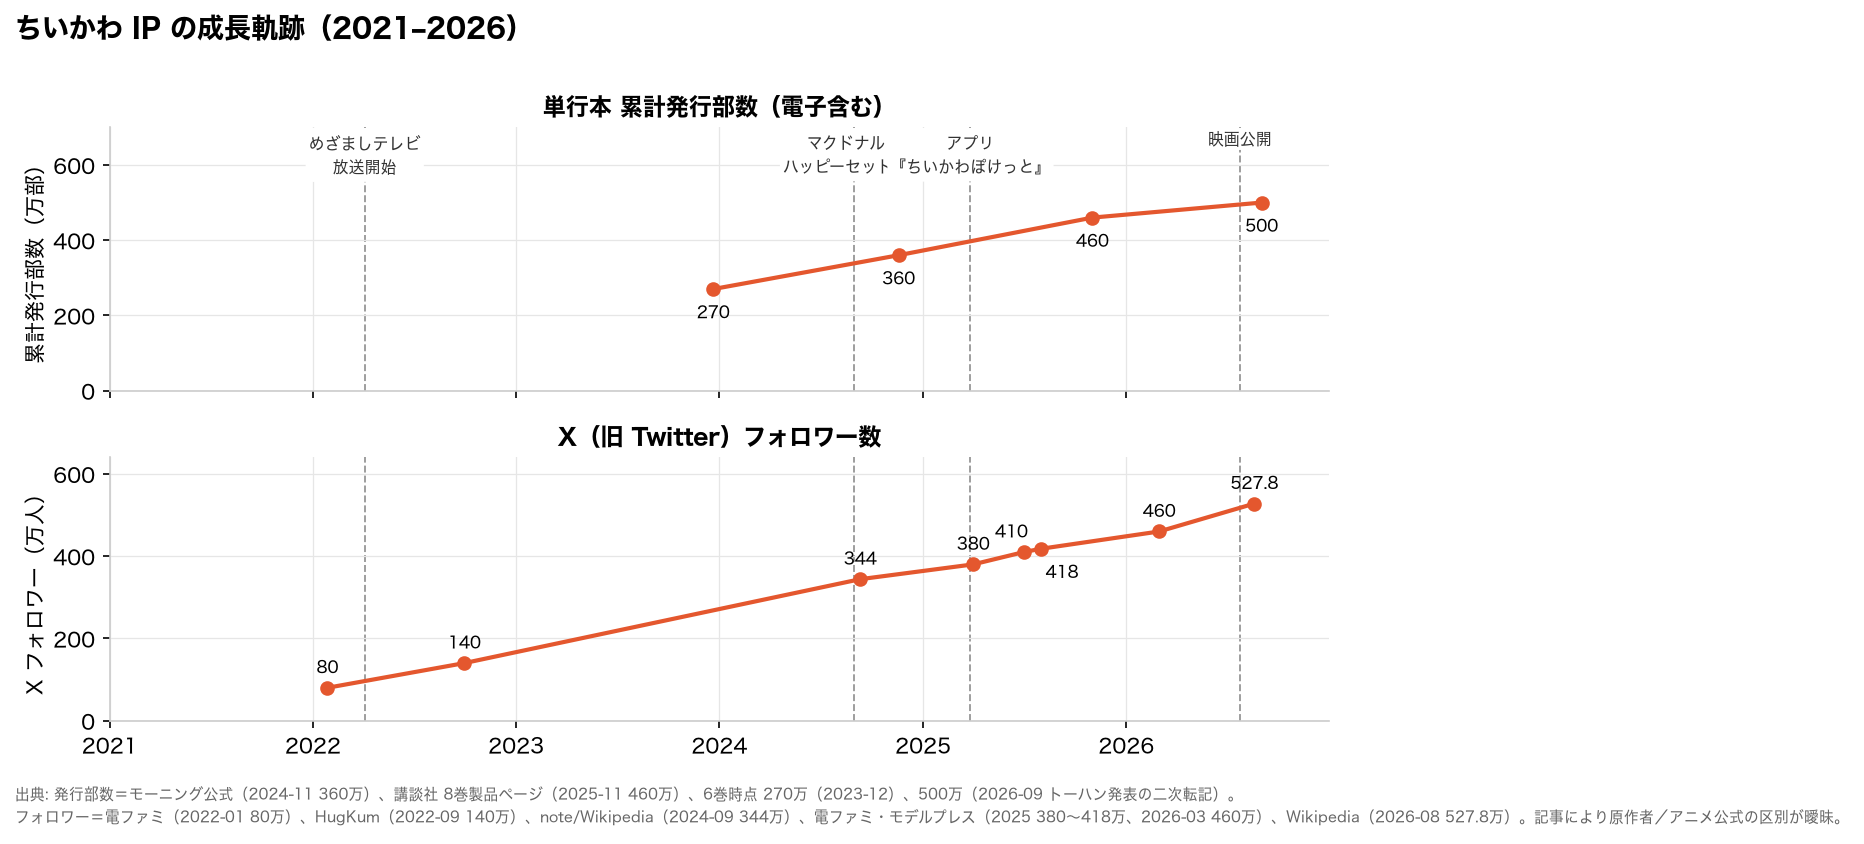
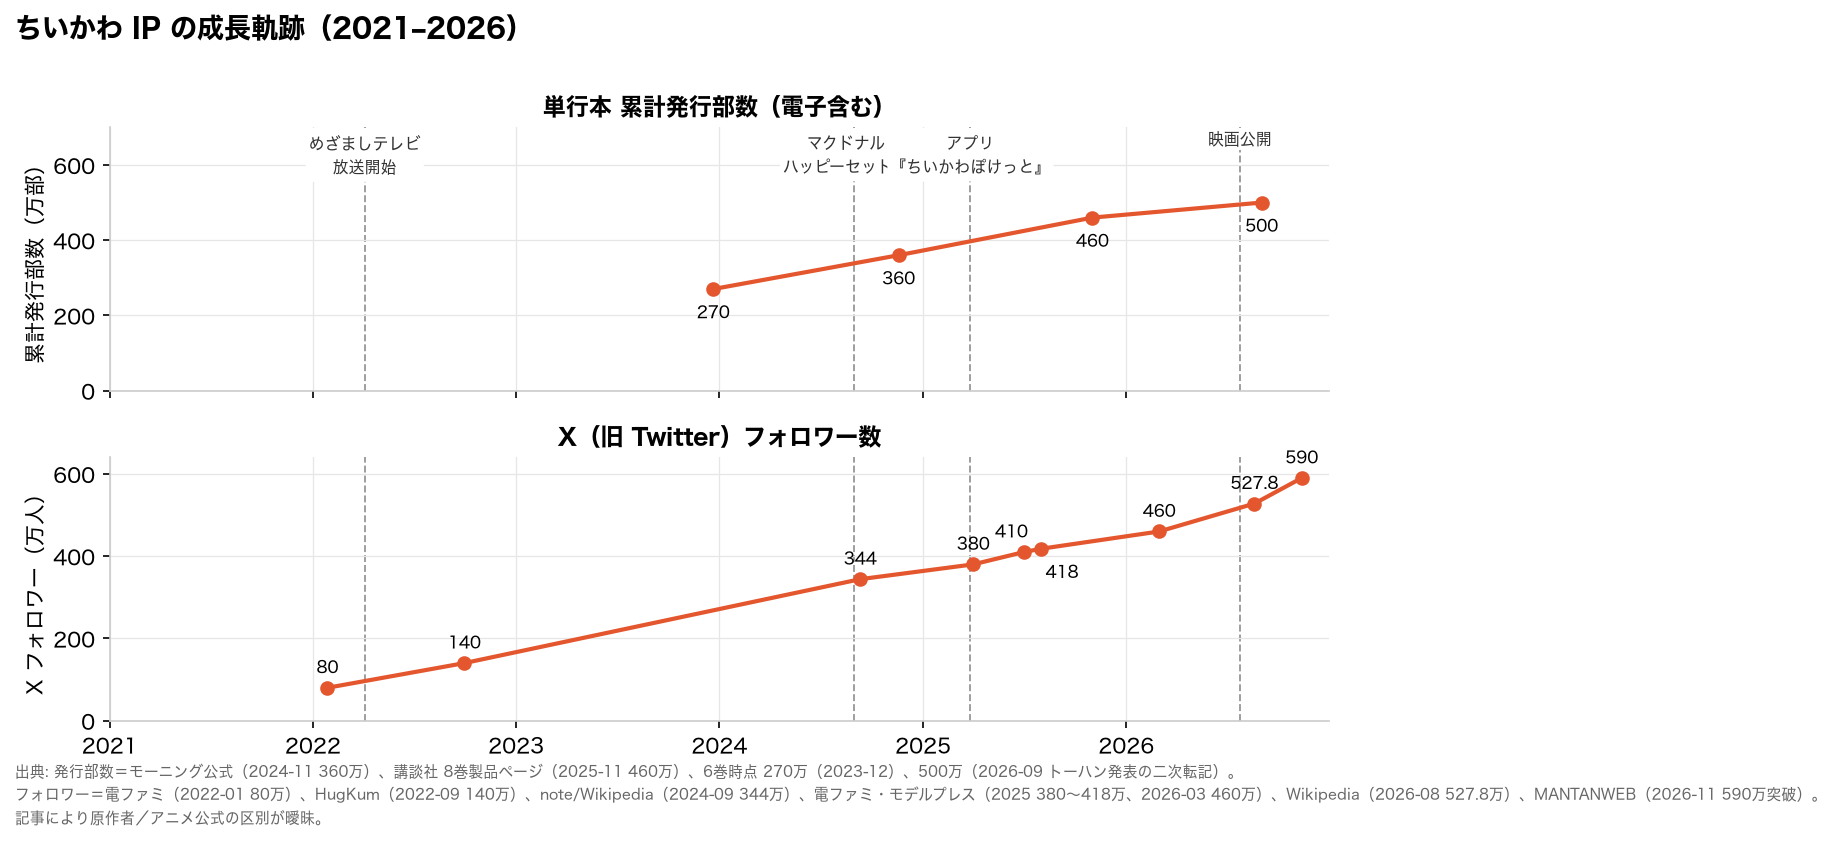
docs(chiikawa): 映画の興収・動員と X フォロワーを最新値に更新
映画は 2026-11-08 時点（公開 108 日、187.9 億円、1,286 万人）、
X フォロワーは 2026-11-12 の報道（590 万突破）。fig1・fig2・ヘッダーを再生成。

diff --git a/docs/articles/headers/make_headers.py b/docs/articles/headers/make_headers.py
@@ -1486,7 +1486,7 @@ def chiikawa() -> Path:
     items = [
         ("女児の人気度", "73.9% で 1 位", ORANGE),
         ("男児では", "TOP10 圏外", BLUE),
-        ("映画（公開 87 日）", "181.0 億円・1,242 万人", INK),
+        ("映画（公開 108 日）", "187.9 億円・1,286 万人", INK),
         ("大人側の指標から子ども 1 位まで", "3 年", INK),
     ]
     for i, (label, value, color) in enumerate(items):

diff --git a/docs/articles/2026-11-12-note-chiikawa-social-phenomenon.final.md b/docs/articles/2026-11-12-note-chiikawa-social-phenomenon.final.md
@@ -3,7 +3,7 @@
 
 ## 1. 背景・分析論点の概要
 
-「メディアが多様化して、誰もが知っている社会現象は起きにくくなった」とよく言われます。その一方で、ちいかわは「小学生なら全員知っている」と言われるほど広がり、2026 年 7 月公開の劇場版は公開 87 日で興行収入 181.0 億円に達しました。
+「メディアが多様化して、誰もが知っている社会現象は起きにくくなった」とよく言われます。その一方で、ちいかわは「小学生なら全員知っている」と言われるほど広がり、2026 年 7 月公開の劇場版は公開 108 日で興行収入 187.9 億円に達しました。
 
 この 2 つは両立するのでしょうか。本稿では、公開されている調査と統計だけを使って、次の 3 つを順に確かめました。
 
@@ -19,7 +19,7 @@
 **ちいかわは「全小学生」ではなく、「女児とその親世代」に強く偏って広がっていました。そして社会現象が起きにくくなったのはテレビの話で、映画ではむしろ巨大ヒットが増えていました。**
 
 - 代表性のある子ども調査（ビデオリサーチ Kids/ex、3〜12 歳、2025 年 10 月）で、ちいかわを「好き」と答えた割合は、女児で 73.9%（1 位）でした。男児では TOP10 圏外（10 位の 47.7% 未満）、子ども全体では 52.6%（7 位）です。
-- 劇場版は公開 87 日で興行収入 181.0 億円、動員 1,242 万人でした。動員は映画ドラえもん（約 320 万人）の約 4 倍です。
+- 劇場版は公開 108 日で興行収入 187.9 億円、動員 1,286 万人でした。動員は映画ドラえもん（約 320 万人）の約 4 倍です。
 - テレビの尺度は一貫して縮小しています。年間最高ドラマの世帯視聴率は 1990 年代平均 33.8% → 2020〜25 年平均 19.5%、10 代の平日のテレビ視聴は 2012 年 102.9 分 → 2024 年 39.7 分です。
 - 一方、映画では上位 3 作が全国興行収入に占める割合が、2010 年代平均 14.9% → 2020 年代平均 23.2% に上がりました。100 億円を超える作品も年 1.3 本 → 2022 年以降は年 3.25 本に増えています。
 - ちいかわは、大人向けの指標（ヒット商品番付・業界賞）で 2022 年に上位に入り、子ども調査の 1 位（2025 年）はその 3 年後、映画（2026 年）は 4 年後でした。鬼滅の刃や妖怪ウォッチは、この差が 0〜2 年です。
@@ -39,7 +39,7 @@
 - **子どものネット利用**: こども家庭庁「青少年のインターネット利用環境実態調査」（令和 7 年度）。
 - **検索関心**: Google Trends（日本、2019 年 1 月〜2026 年 10 月）。
 
-映画の数値は 2026 年 10 月 18 日時点、その他は 10 月 22 日時点で確認したものです。
+映画の数値は 2026 年 11 月 8 日時点、X のフォロワー数は 11 月 12 日の報道、その他は 10 月 22 日時点で確認したものです。
 
 
 ## 4. 分析方法の概要
@@ -76,10 +76,10 @@ NRC の全国調査（15〜79 歳、2024 年 7 月）では、ちいかわの好
 
 証拠 1 と合わせると、**ちいかわを支持しているのは「小学生の女児」と「10 代後半から 40 代の大人」で、男児には届いていません**。人気の偏りは、年齢よりも性別に出ています。
 
-### 証拠 3: X のフォロワーは 4 年半で 80 万 → 527.8 万。6 年かけて段階的に増えた
+### 証拠 3: X のフォロワーは 5 年弱で 80 万 → 590 万。6 年かけて段階的に増えた
 
 【画像を挿入: fig1_growth_timeline.png】
-*単行本の累計発行部数（上、万部）と X のフォロワー数（下、万人）。フォロワーは 2022 年 1 月 80 万 → 2026 年 8 月 527.8 万。出典: モーニング公式・講談社・各報道を加工*
+*単行本の累計発行部数（上、万部）と X のフォロワー数（下、万人）。フォロワーは 2022 年 1 月 80 万 → 2026 年 11 月 590 万。出典: モーニング公式・講談社・各報道を加工*
 
 ちいかわは短期間で急に広がったのではありません。主な出来事を並べるとこうなります。
 
@@ -91,22 +91,22 @@ NRC の全国調査（15〜79 歳、2024 年 7 月）では、ちいかわの好
 - 2025 年 10 月。Kids/ex の調査対象に初めて入り、女児 1 位。
 - 2026 年 7 月。劇場版を公開。
 
-フォロワーの増え方は、2022 年 1 月（80 万）→ 2024 年 9 月（344 万）が年率約 70%、2024 年 9 月 → 2026 年 8 月（527.8 万）が年率約 25% です。アニメの放送開始から 2 年間の伸びが最も急でした。
+フォロワーの増え方は、2022 年 1 月（80 万）→ 2024 年 9 月（344 万）が年率約 70%、2024 年 9 月 → 2026 年 8 月（527.8 万）が年率約 25% です。アニメの放送開始から 2 年間の伸びが最も急でした。映画公開後の 2026 年 11 月には、590 万を超えたと報じられています。
 
 ただし、アニメの放送が成長の原因だったとは言い切れません。放送開始の前に、フォロワーはすでに 80 万いました。「大人の間で人気があったキャラクターが、アニメ化によって子どもと家庭にも届くようになった」と読むのが、時系列とは整合します。放送がなければ同じ成長が起きなかったかどうかは、確かめられません。
 
-### 証拠 4: 映画は 87 日で 181.0 億円。初日は大人のファン、その後は親子連れという二層
+### 証拠 4: 映画は 108 日で 187.9 億円。初日は大人のファン、その後は親子連れという二層
 
 【画像を挿入: fig2_movie_boxoffice.png】
-*映画の興行収入の比較（億円）。映画ちいかわは 2026 年 10 月 18 日時点で 181.0 億円。同年公開の名探偵コナン 137.0 億円、トイ・ストーリー 5 130.1 億円を上回る。出典: 興行通信社の集計（各報道経由）、歴代興行収入の一覧を加工*
+*映画の興行収入の比較（億円）。映画ちいかわは 2026 年 11 月 8 日時点で 187.9 億円。同年公開の名探偵コナン 137.0 億円、トイ・ストーリー 5 130.4 億円を上回る。出典: 興行通信社の集計（各報道経由）、歴代興行収入の一覧を加工*
 
-**『映画ちいかわ 人魚の島のひみつ』（2026 年 7 月 24 日公開）は、公開 87 日で興行収入 181.0 億円、動員 1,242 万人でした。** 2026 年公開作の 1 位で、名探偵コナンのシリーズ最高（158.0 億円）を上回ります。過去の子ども向けブームと比べると、妖怪ウォッチ第 1 作（78.0 億円）の 2.3 倍、すみっコぐらし第 1 作（14.5 億円）の 12 倍です。
+**『映画ちいかわ 人魚の島のひみつ』（2026 年 7 月 24 日公開）は、公開 108 日で興行収入 187.9 億円、動員 1,286 万人でした。** 2026 年公開作の 1 位で、名探偵コナンのシリーズ最高（158.0 億円）を上回ります。過去の子ども向けブームと比べると、妖怪ウォッチ第 1 作（78.0 億円）の 2.4 倍、すみっコぐらし第 1 作（14.5 億円）の約 13 倍です。
 
 数字からは、観客が二層になっていたことが読み取れます。
 
 - **初日に大人のファンが集まった**。初日（金曜）の興行収入は 9.9 億円で、土日を上回りました。公開 3 日間の動員は 150.9 万人です。
 - **その後は長く動員が続いた**。公開 59 日で動員 1,086 万人となり、最初の 3 日間の 7 倍を超えました。
-- **1 人あたりの単価が低い**。181.0 億円 ÷ 1,242 万人 ≒ 1,457 円で、コナンなどの 1,500〜1,600 円台より低く、子ども料金の観客が多かったことと整合します。
+- **1 人あたりの単価が低い**。187.9 億円 ÷ 1,286 万人 ≒ 1,461 円で、コナンなどの 1,500〜1,600 円台より低く、子ども料金の観客が多かったことと整合します。
 
 入場者特典も動員を支えました。特典は第 7 弾まで続けて投入され、第 1 弾は全 8 種のフィギュアを選べない形で配布しています。第 2 弾の配布が始まった週末（8 月 7〜9 日）には、動員 114.7 万人で週末 1 位に戻りました。
 
@@ -186,7 +186,7 @@ NRC の全国調査（15〜79 歳、2024 年 7 月）では、ちいかわの好
 
 **「社会現象が起きにくくなった」は、テレビの視聴率で測ったときにだけ成り立ちます。** 年間最高ドラマの視聴率は 33.8% → 19.5% に下がりました。一方、映画では上位 3 作のシェアが 14.9% → 23.2% に上がり、100 億円超の作品は年 1.3 本 → 3.25 本に増えています。巨大ヒットは少数の作品に集中していました。
 
-**ちいかわを支持していたのは、女児（73.9% で 1 位）と 10 代後半〜40 代の大人でした。** 男児では TOP10 圏外です。その偏った支持のまま、動員 1,242 万人の映画を成立させました。
+**ちいかわを支持していたのは、女児（73.9% で 1 位）と 10 代後半〜40 代の大人でした。** 男児では TOP10 圏外です。その偏った支持のまま、動員 1,286 万人の映画を成立させました。
 
 **広がった順序は、大人が先で、子どもが 3〜4 年後でした。** 2020〜21 年に X で大人の支持を集め、2022 年に朝の情報番組でアニメが始まり、安価な商品とコンビニ・ファストフードで日常の持ち物になり、2026 年の映画で親子を同時に動員した、という順序です。
 
@@ -207,7 +207,7 @@ NRC の全国調査（15〜79 歳、2024 年 7 月）では、ちいかわの好
 
 ### 言えないこと
 
-因果の主張はありません。朝の情報番組、無料配信、安価な商品が広がりの原因だったかどうかは、測れていません。「母親が先に知って子どもに見せた」という経路を示す調査もありません。映画の観客の年齢構成、ちいかわ関連商品の売上の内訳、『めざましテレビ』の子どもの視聴率は、いずれも公表されていませんでした。テレビの視聴率は世帯・リアルタイムの数値で、その一部は一次資料で確認できていません。映画の最終的な興行収入は、10 月 18 日時点で確定していません。
+因果の主張はありません。朝の情報番組、無料配信、安価な商品が広がりの原因だったかどうかは、測れていません。「母親が先に知って子どもに見せた」という経路を示す調査もありません。映画の観客の年齢構成、ちいかわ関連商品の売上の内訳、『めざましテレビ』の子どもの視聴率は、いずれも公表されていませんでした。テレビの視聴率は世帯・リアルタイムの数値で、その一部は一次資料で確認できていません。映画の最終的な興行収入は、11 月 8 日時点で確定していません。
 
 ---
 
